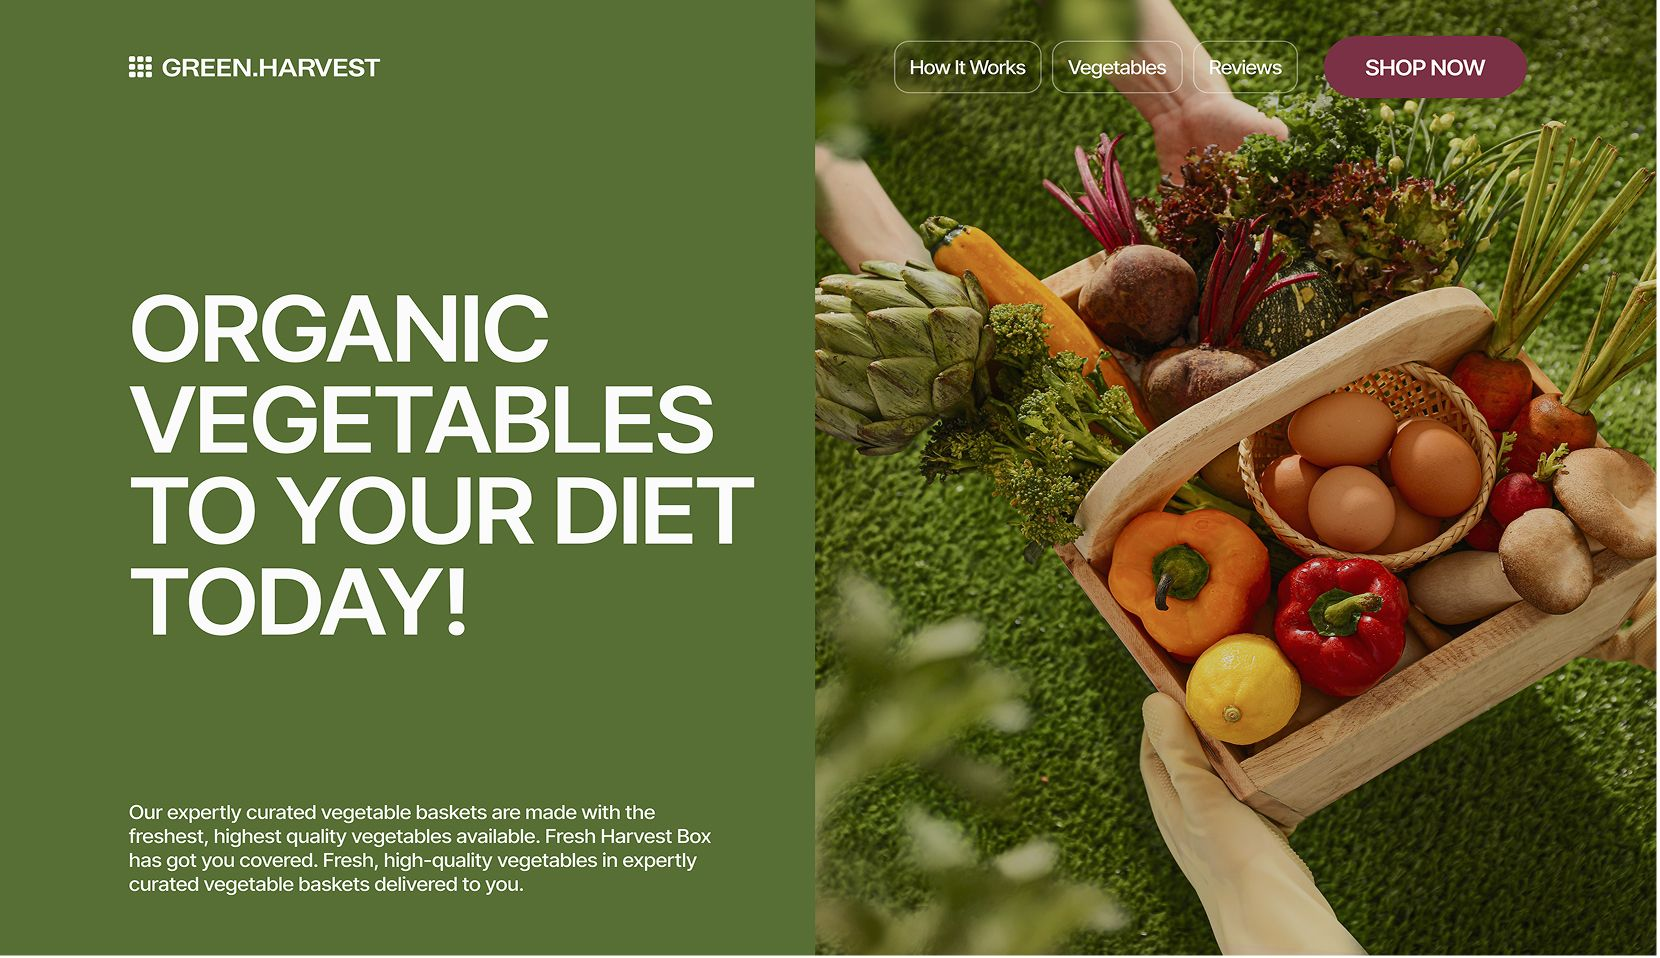
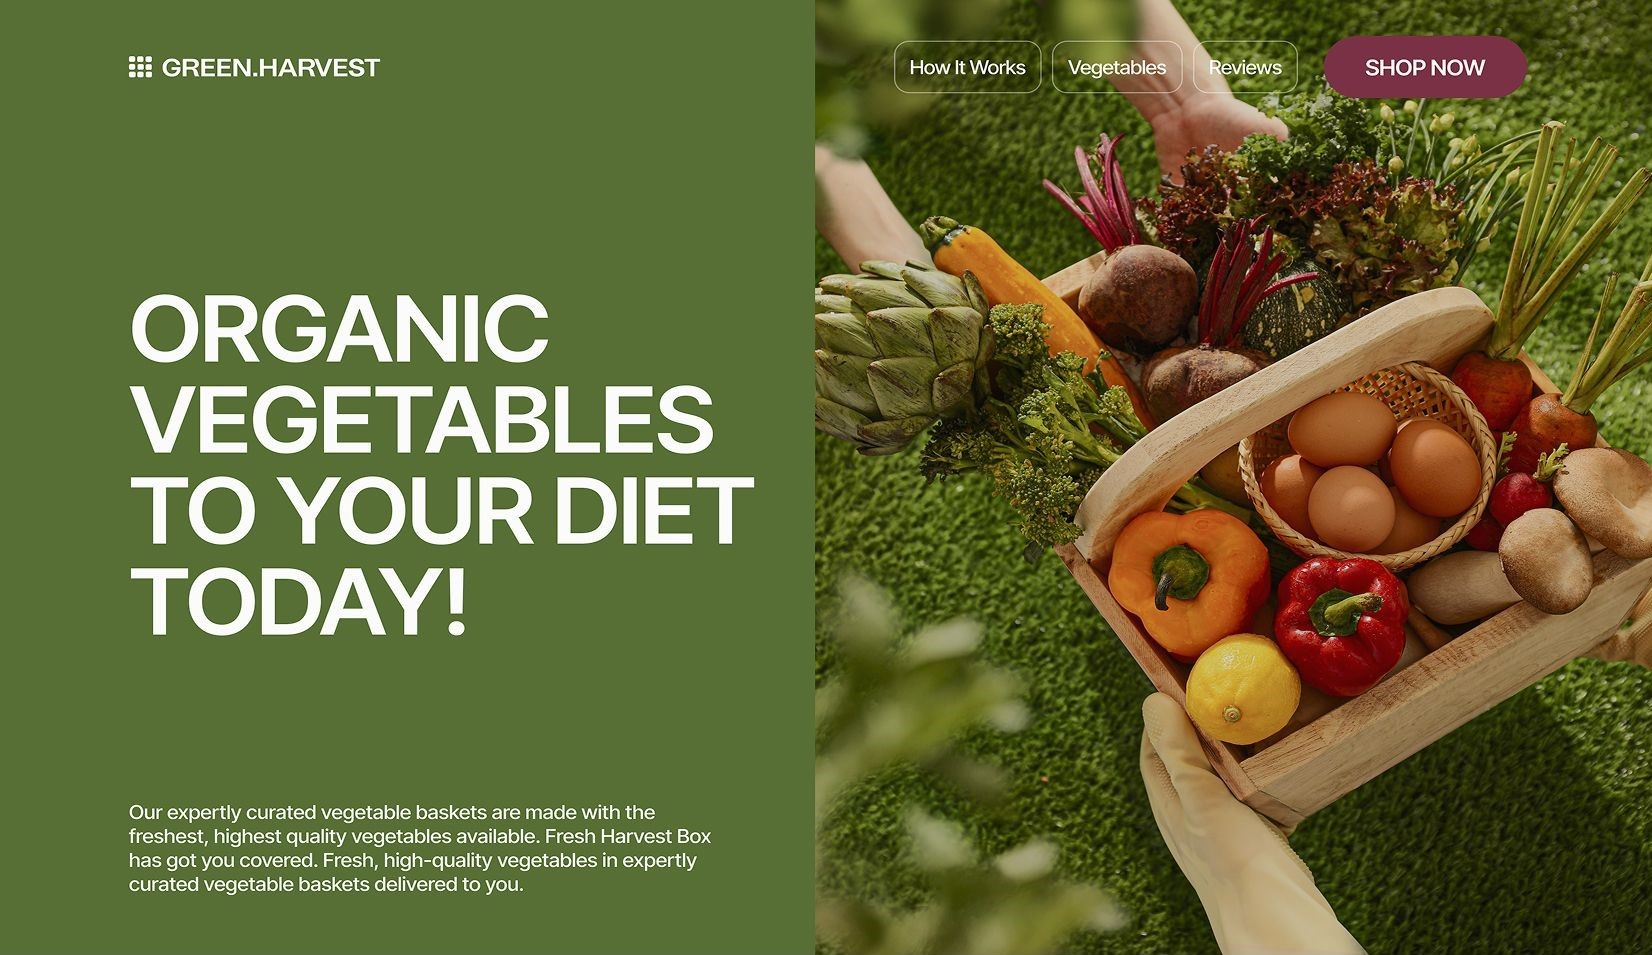
add background

diff --git a/src/css/covers.css b/src/css/covers.css
@@ -2,6 +2,16 @@
     position: relative;
     height: 100vh;
     padding: 0;
+    background-color: rgba(217, 217, 217, 0.04);
+    background-image: url(../img/covers/elements_vectors@1x.png);
+    background-size: cover;
+}
+
+@media (min-resolution: 192dpi),
+(min-resolution: 2dppx) {
+    .covers {
+        background-image: url(../img/covers/elements_vectors@2x.png);
+    }
 }
 
 .covers-wrapper {
@@ -11,6 +21,8 @@
     height: 100%;
     right: -500px;
     left: 0;
+    background-image: "../img/covers/elements_vectors@1x.png";
+    background-size: cover;
 }
 
 .covers-set {
